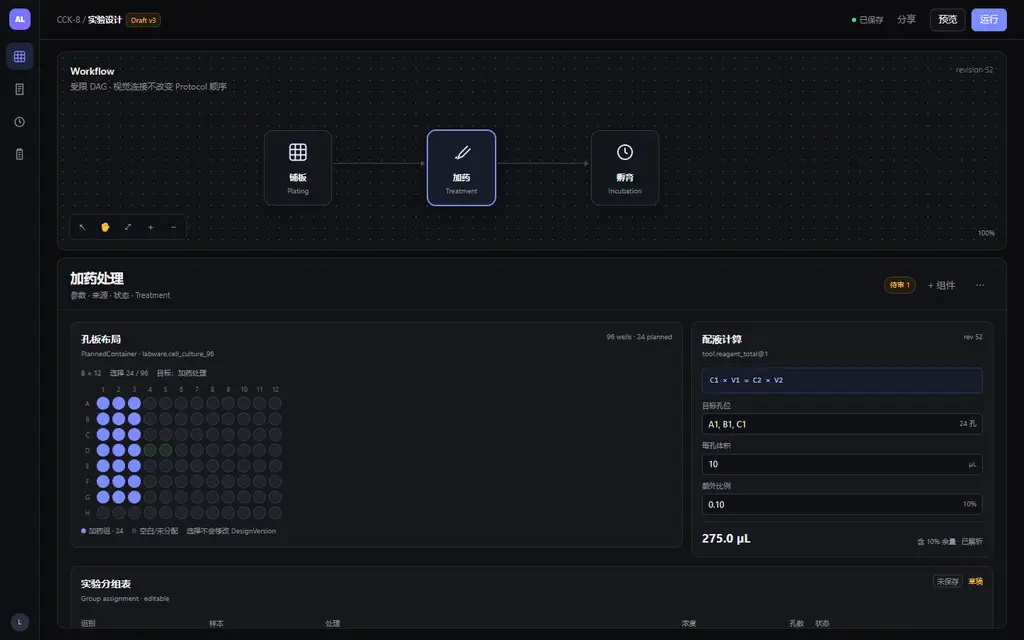
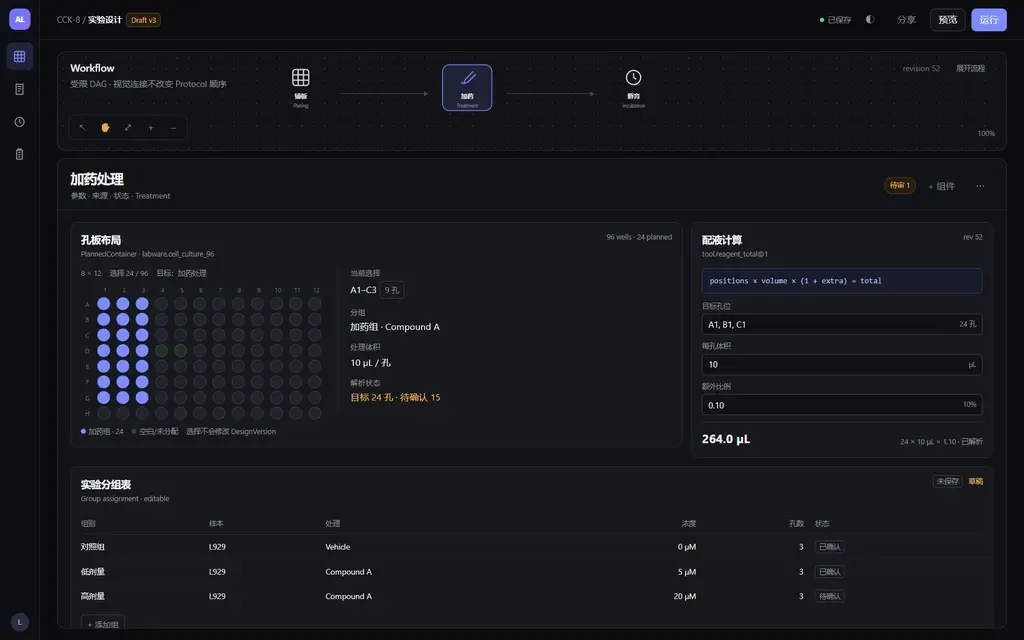
docs: refine design prototype plate and workflow states

diff --git a/docs/prototypes/tabler-vs-dify-2026-11-06/index.html b/docs/prototypes/tabler-vs-dify-2026-11-06/index.html
@@ -5,7 +5,7 @@
 <meta name="viewport" content="width=device-width,initial-scale=1">
 <title>AsterLab · CCK-8 实验设计</title>
 <style>
-:root{--bg:#0b0c0e;--surface:#111316;--surface2:#17191d;--line:#262a30;--line2:#343943;--ink:#f2f4f7;--muted:#8b929d;--accent:#7c8cff;--accent-soft:#20243a;--success:#4ade80;--warning:#f2b84b}
+html[data-theme="light"]{--bg:#f7f8fa;--surface:#fff;--surface2:#fbfcfe;--line:#e4e7ec;--line2:#cfd6e2;--ink:#202938;--muted:#667085;--accent:#2563eb;--accent-soft:#eff4ff;--success:#16803c;--warning:#b54708}:root{--bg:#0b0c0e;--surface:#111316;--surface2:#17191d;--line:#262a30;--line2:#343943;--ink:#f2f4f7;--muted:#8b929d;--accent:#7c8cff;--accent-soft:#20243a;--success:#4ade80;--warning:#f2b84b}
 *{box-sizing:border-box}html,body{height:100%}body{margin:0;background:var(--bg);color:var(--ink);font:13px/1.55 Inter,"Segoe UI","Microsoft YaHei",sans-serif}
 button,input,select,textarea{font:inherit;color:inherit}button{cursor:pointer}
 .app{height:100%;display:grid;grid-template-columns:56px minmax(0,1fr)}
@@ -21,18 +21,18 @@ button,input,select,textarea{font:inherit;color:inherit}button{cursor:pointer}
 .workspace{flex:0 0 280px;min-height:220px;margin:16px 24px 0;border:1px solid var(--line);border-radius:12px;background:var(--surface);position:relative;overflow:hidden}
 .canvas-head{display:flex;align-items:flex-start;justify-content:space-between;padding:16px 18px 0;position:relative;z-index:2}.canvas-title{font-size:12px;color:var(--muted)}.canvas-title b{display:block;font-size:14px;color:var(--ink);font-weight:600;margin-bottom:1px}.canvas-note{font-size:11px;color:#6f7783}
 .canvas{position:absolute;inset:0;background-image:radial-gradient(#30343d 1px,transparent 1px);background-size:16px 16px;background-position:0 0}
-.node{position:absolute;width:96px;padding:12px 8px;border:1px solid var(--line2);border-radius:12px;background:#14171c;text-align:center;box-shadow:0 8px 24px #0003}.node.selected{border-color:var(--accent);background:#181c2a;box-shadow:0 0 0 1px var(--accent),0 12px 30px #0005}.node .ico{width:36px;height:36px;margin:0 auto 8px;display:grid;place-items:center;color:#dfe4ff}.node .ico svg{width:30px;height:30px}.node .name{font-size:12px;font-weight:550}.node .kind{font-size:10px;color:var(--muted);margin-top:2px}
-.node.a{left:290px;top:110px}.node.b{left:520px;top:110px}.node.c{left:750px;top:110px}
-.edge{position:absolute;height:1px;top:156px;background:#454b57}.edge.e1{left:388px;width:128px}.edge.e2{left:618px;width:128px}.edge:after{content:"";position:absolute;right:-1px;top:-3px;border-left:6px solid #454b57;border-top:4px solid transparent;border-bottom:4px solid transparent}
+.node{position:absolute;width:112px;height:104px;border:1px solid transparent;border-radius:16px;background:transparent;text-align:center;display:flex;flex-direction:column;align-items:center;justify-content:center;gap:5px}.node:hover{background:#ffffff08}.node.selected{background:var(--accent-soft);border-color:var(--accent);box-shadow:0 0 0 1px var(--accent)}.node .ico{width:52px;height:52px;display:grid;place-items:center;color:var(--ink)}.node.selected .ico{color:var(--accent)}.node .ico svg{width:48px;height:48px;stroke-width:1.35}.node .name{font-size:14px;font-weight:600;letter-spacing:-.01em}.node .kind{font-size:11px;color:var(--muted);margin-top:-2px}
+.node.a{left:286px;top:100px}.node.b{left:520px;top:100px}.node.c{left:754px;top:100px}
+.edge{position:absolute;height:1px;top:152px;background:#454b57}.edge.e1{left:398px;width:122px}.edge.e2{left:632px;width:122px}.edge:after{content:"";position:absolute;right:-1px;top:-3px;border-left:6px solid #454b57;border-top:4px solid transparent;border-bottom:4px solid transparent}
 .tools{position:absolute;left:16px;bottom:14px;display:flex;gap:2px;background:#0f1216;border:1px solid var(--line);border-radius:8px;padding:3px}.tools button{width:30px;height:28px;border:0;background:transparent;color:var(--muted);border-radius:5px}.tools button:hover{background:var(--surface2);color:var(--ink)}.zoom{position:absolute;right:16px;bottom:16px;font-size:10px;color:var(--muted)}
 .detail{flex:1 1 0;min-height:0;margin:10px 24px 16px;border:1px solid var(--line);border-radius:12px;background:var(--surface);display:flex;flex-direction:column;overflow:hidden}
 .detail-head{flex:0 0 auto;display:flex;align-items:center;gap:14px;padding:16px 18px 12px;border-bottom:1px solid var(--line)}.detail-head h1{font-size:19px;line-height:1.2;margin:0;font-weight:650;letter-spacing:-.02em}.detail-head .meta{font-size:11px;color:var(--muted);margin-top:4px}.detail-actions{margin-left:auto;display:flex;align-items:center;gap:5px}.pill{font-size:10px;color:var(--muted);border:1px solid var(--line2);border-radius:99px;padding:3px 7px}.pill.warn{color:var(--warning);border-color:#4b3b1f;background:#241d10}
-.detail-scroll{flex:1 1 0;overflow:auto;padding:16px 18px 18px}
+.detail-scroll{flex:1 1 0;overflow:auto;padding:16px 18px 18px}.workspace.compact{flex-basis:140px;min-height:140px}.workspace.compact .canvas{opacity:.9}.workspace.compact .node{top:18px!important;transform:scale(.62);transform-origin:top center}.workspace.compact .edge{top:58px}.workspace.compact .canvas-head{padding-top:12px}
 .grid{display:grid;grid-template-columns:repeat(12,minmax(0,1fr));gap:12px;align-items:start}
 .card{border:1px solid var(--line);border-radius:10px;background:var(--surface2);min-width:0}.plate{grid-column:span 8}.calc{grid-column:span 4}.tablecard{grid-column:span 12}
 .card-head{display:flex;align-items:flex-start;gap:8px;padding:13px 14px 0}.card-head h2{font-size:14px;margin:0;font-weight:600}.card-head .sub{font-size:10px;color:var(--muted);margin-top:2px}.card-head .right{margin-left:auto;font-size:10px;color:var(--muted)}
 .card-body{padding:12px 14px 14px}
-.plate-meta{display:flex;gap:12px;color:var(--muted);font-size:10px;margin-bottom:8px}.wellgrid{display:grid;grid-template-columns:18px repeat(12,18px);gap:4px;align-items:center;justify-content:start}.axis{font-size:9px;color:#69717d;text-align:center}.well{width:18px;height:18px;border-radius:50%;border:1px solid #343a45;background:#20242b}.well.on{background:var(--accent);border-color:var(--accent)}.well.control{background:#243027;border-color:#33503e}.legend{display:flex;gap:12px;color:var(--muted);font-size:10px;margin-top:9px}.dot{width:7px;height:7px;border-radius:50%;display:inline-block;margin-right:4px;background:var(--accent)}.dot.muted{background:#3a414c}
+.plate-meta{display:flex;gap:12px;color:var(--muted);font-size:10px;margin-bottom:8px}.plate-body{display:grid;grid-template-columns:auto minmax(190px,1fr);gap:20px;align-items:start}.wellgrid{display:grid;grid-template-columns:18px repeat(12,22px);gap:5px;align-items:center;justify-content:start}.plate-side{border-left:1px solid var(--line);padding-left:16px;min-height:180px}.side-k{font-size:10px;color:var(--muted);text-transform:uppercase;letter-spacing:.05em}.side-v{font-size:13px;margin:2px 0 12px}.side-badge{display:inline-flex;align-items:center;gap:5px;font-size:11px;border:1px solid var(--line2);border-radius:5px;padding:3px 7px;color:var(--muted)}.axis{font-size:9px;color:#69717d;text-align:center}.well{width:18px;height:18px;border-radius:50%;border:1px solid #343a45;background:#20242b}.well.on{background:var(--accent);border-color:var(--accent)}.well.control{background:#243027;border-color:#33503e}.legend{display:flex;gap:12px;color:var(--muted);font-size:10px;margin-top:9px}.dot{width:7px;height:7px;border-radius:50%;display:inline-block;margin-right:4px;background:var(--accent)}.dot.muted{background:#3a414c}
 .calc-formula{font:11px/1.6 "SFMono-Regular",Consolas,monospace;color:#b7c0ff;background:#171b2a;border:1px solid #2b3353;border-radius:6px;padding:8px 10px;margin-bottom:10px}.field{display:grid;gap:3px;margin-bottom:8px}.field label{font-size:10px;color:var(--muted)}.input{height:30px;border:1px solid var(--line2);border-radius:6px;background:#101216;padding:0 8px;display:flex;align-items:center;justify-content:space-between;font-size:12px}.input small{color:var(--muted);font-size:10px}.result{border-top:1px solid var(--line);margin-top:9px;padding-top:9px;display:flex;justify-content:space-between;align-items:end}.result b{font-size:17px;font-weight:650;color:#e8ebff}.result span{font-size:10px;color:var(--muted)}
 .table{width:100%;border-collapse:collapse;font-size:11px}.table th{font-size:10px;font-weight:500;color:var(--muted);text-align:left;padding:7px 8px;border-bottom:1px solid var(--line)}.table td{padding:8px;border-bottom:1px solid #20242a}.table tr:last-child td{border-bottom:0}.table td:first-child,.table th:first-child{padding-left:0}.table .right{text-align:right;font-variant-numeric:tabular-nums}.tag{font-size:10px;color:var(--muted);border:1px solid var(--line2);border-radius:4px;padding:1px 5px}.savehint{font-size:10px;color:var(--warning);margin-left:8px}.addrow{display:inline-flex;height:28px;align-items:center;gap:4px;border:1px solid var(--line2);border-radius:6px;background:transparent;color:var(--muted);padding:0 8px;font-size:11px;margin-top:9px}
 .note{grid-column:span 12;padding:11px 14px;display:flex;align-items:center;gap:8px;font-size:11px;color:var(--muted)}.note b{color:#c3c8d2;font-weight:500}
@@ -53,10 +53,10 @@ button,input,select,textarea{font:inherit;color:inherit}button{cursor:pointer}
 <div class="main">
   <header class="topbar">
     <div class="crumb">CCK-8 <span>/</span> <b>实验设计</b> <span class="draft">Draft v3</span></div>
-    <div class="top-actions"><span class="status"><i></i>已保存</span><button class="btn ghost">分享</button><button class="btn">预览</button><button class="btn primary">运行</button></div>
+    <div class="top-actions"><span class="status"><i></i>已保存</span><button class="btn ghost" id="themeToggle">◐</button><button class="btn ghost">分享</button><button class="btn">预览</button><button class="btn primary">运行</button></div>
   </header>
   <section class="workspace">
-    <div class="canvas-head"><div class="canvas-title"><b>Workflow</b>受限 DAG · 视觉连接不改变 Protocol 顺序</div><div class="canvas-note">revision 52</div></div>
+    <div class="canvas-head"><div class="canvas-title"><b>Workflow</b>受限 DAG · 视觉连接不改变 Protocol 顺序</div><div class="canvas-note">revision 52 <button class="btn ghost" id="collapseWorkflow" style="margin-left:8px;height:24px;font-size:10px">收起流程</button></div></div>
     <div class="canvas">
       <div class="node a"><div class="ico"><svg viewBox="0 0 24 24" fill="none" stroke="currentColor" stroke-width="1.6"><rect x="3" y="3" width="18" height="18" rx="3"/><path d="M3 9h18M3 15h18M9 3v18M15 3v18"/></svg></div><div class="name">铺板</div><div class="kind">Plating</div></div>
       <div class="node b selected"><div class="ico"><svg viewBox="0 0 24 24" fill="none" stroke="currentColor" stroke-width="1.6"><path d="M19 5l-9 9-2 5 5-2 9-9M5 19l2-2"/></svg></div><div class="name">加药</div><div class="kind">Treatment</div></div>
@@ -75,6 +75,7 @@ button,input,select,textarea{font:inherit;color:inherit}button{cursor:pointer}
         <section class="card plate">
           <div class="card-head"><div><h2>孔板布局</h2><div class="sub">PlannedContainer · labware.cell_culture_96</div></div><div class="right">96 wells · 24 planned</div></div>
           <div class="card-body">
+            <div class="plate-body"><div>
             <div class="plate-meta"><span>8 × 12</span><span>选择 24 / 96</span><span>目标：加药处理</span></div>
             <div class="wellgrid"><span></span><span class="axis">1</span><span class="axis">2</span><span class="axis">3</span><span class="axis">4</span><span class="axis">5</span><span class="axis">6</span><span class="axis">7</span><span class="axis">8</span><span class="axis">9</span><span class="axis">10</span><span class="axis">11</span><span class="axis">12</span></div>
             <div class="wellgrid" style="margin-top:4px"><span class="axis">A</span><i class="well on"></i><i class="well on"></i><i class="well on"></i><i class="well"></i><i class="well"></i><i class="well"></i><i class="well"></i><i class="well"></i><i class="well"></i><i class="well"></i><i class="well"></i><i class="well"></i></div>
@@ -86,16 +87,17 @@ button,input,select,textarea{font:inherit;color:inherit}button{cursor:pointer}
             <div class="wellgrid" style="margin-top:4px"><span class="axis">G</span><i class="well on"></i><i class="well on"></i><i class="well on"></i><i class="well"></i><i class="well"></i><i class="well"></i><i class="well"></i><i class="well"></i><i class="well"></i><i class="well"></i><i class="well"></i><i class="well"></i></div>
             <div class="wellgrid" style="margin-top:4px"><span class="axis">H</span><i class="well"></i><i class="well"></i><i class="well"></i><i class="well"></i><i class="well"></i><i class="well"></i><i class="well"></i><i class="well"></i><i class="well"></i><i class="well"></i><i class="well"></i><i class="well"></i></div>
             <div class="legend"><span><i class="dot"></i>加药组 · 24</span><span><i class="dot muted"></i>空白/未分配</span><span>选择不会修改 DesignVersion</span></div>
+            </div><aside class="plate-side"><div class="side-k">当前选择</div><div class="side-v">A1–C3 <span class="side-badge">9 孔</span></div><div class="side-k">分组</div><div class="side-v">加药组 · Compound A</div><div class="side-k">处理体积</div><div class="side-v">10 µL / 孔</div><div class="side-k">解析状态</div><div class="side-v" style="color:#f2b84b">目标 24 孔 · 待确认 15</div></aside></div>
           </div>
         </section>
         <section class="card calc">
           <div class="card-head"><div><h2>配液计算</h2><div class="sub">tool.reagent_total@1</div></div><div class="right">rev 52</div></div>
           <div class="card-body">
-            <div class="calc-formula">C1 × V1 = C2 × V2</div>
+            <div class="calc-formula">positions × volume × (1 + extra) = total</div>
             <div class="field"><label>目标孔位</label><div class="input">A1, B1, C1 <small>24 孔</small></div></div>
             <div class="field"><label>每孔体积</label><div class="input">10 <small>µL</small></div></div>
             <div class="field"><label>额外比例</label><div class="input">0.10 <small>10%</small></div></div>
-            <div class="result"><b>275.0 µL</b><span>含 10% 余量 · 已解析</span></div>
+            <div class="result"><b>264.0 µL</b><span>24 × 10 µL × 1.10 · 已解析</span></div>
           </div>
         </section>
         <section class="card tablecard">
@@ -115,5 +117,9 @@ button,input,select,textarea{font:inherit;color:inherit}button{cursor:pointer}
   </section>
 </div>
 </div>
+<script>
+const ws=document.querySelector('.workspace');const cw=document.getElementById('collapseWorkflow');cw.onclick=()=>{ws.classList.toggle('compact');cw.textContent=ws.classList.contains('compact')?'展开流程':'收起流程'};
+const th=document.getElementById('themeToggle');th.onclick=()=>{document.documentElement.dataset.theme=document.documentElement.dataset.theme==='light'?'dark':'light'};
+</script>
 </body>
 </html>
